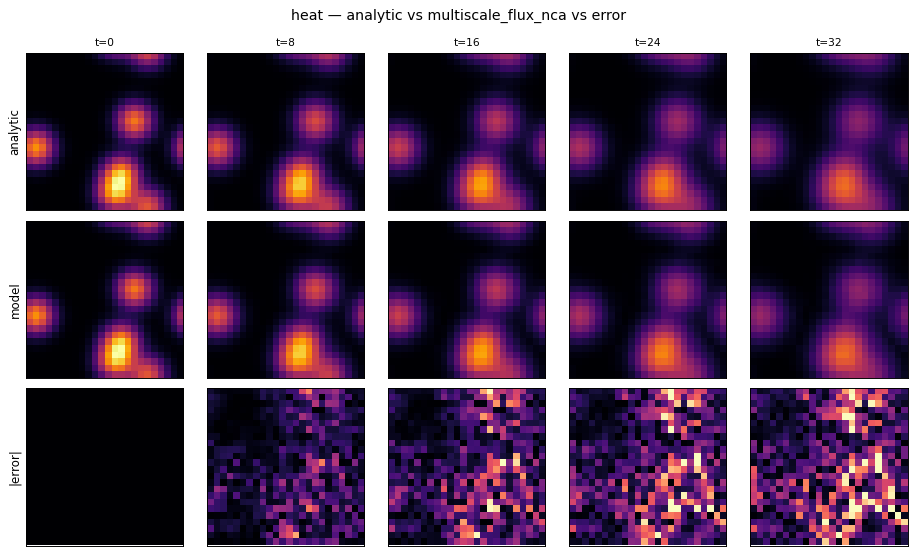
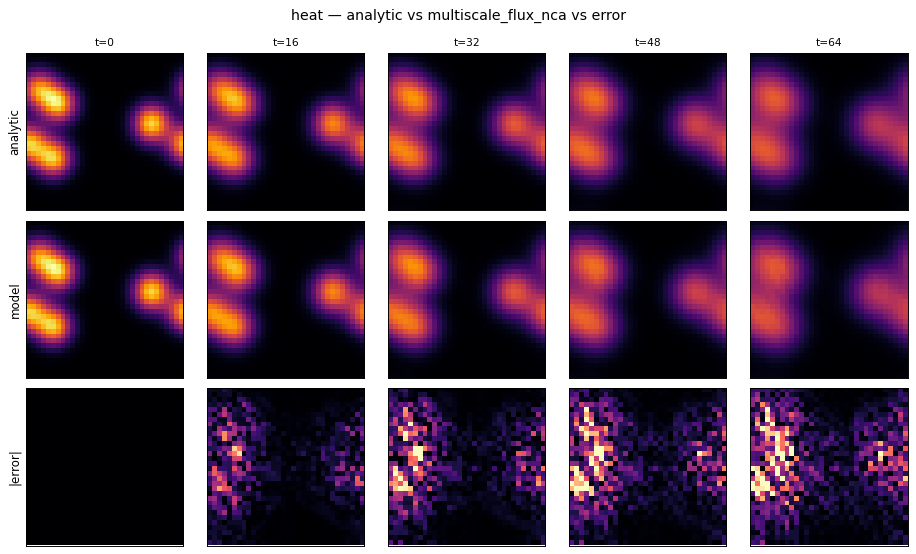
test: add Nagumo torch reference; scope torch-comparison to referenced PDEs
New PDEs would have broken the suite (REFS[name] KeyError). Added verbatim Nagumo
reference; parametrize torch-comparison tests over list(REFS) (excludes the
pseudo-spectral navier_stokes, which has no roll-based ref and is covered by the
IC+rollout stability test). 32/32 in suite+IC tests.

diff --git a/tests/test_pde_suite_correctness.py b/tests/test_pde_suite_correctness.py
@@ -89,11 +89,17 @@ def ref_fhn(s, p):
     return torch.cat([u + p["dt"] * du, v + p["dt"] * dv], 1)
 
 
+def ref_nagumo(s, p):
+    return s + p["dt"] * (p["D"] * t_lap(s) + s * (1.0 - s) * (s - p["a"]))
+
+
+# Verbatim references for the finite-difference PDEs. (navier_stokes is pseudo-spectral
+# — no roll-based torch ref; it is covered by the IC+rollout stability test instead.)
 REFS = {
     "heat": ref_heat, "wave": ref_wave, "adv_diff": ref_adv_diff,
     "allen_cahn": ref_allen_cahn, "gray_scott": ref_gray_scott,
     "shallow_water": ref_shallow_water, "cahn_hilliard": ref_cahn_hilliard,
-    "fitzhugh_nagumo": ref_fhn,
+    "fitzhugh_nagumo": ref_fhn, "nagumo": ref_nagumo,
 }
 
 
@@ -112,7 +118,7 @@ def _make_state(name, C, rng):
     return s
 
 
-@pytest.mark.parametrize("name", list(pdes.REGISTRY))
+@pytest.mark.parametrize("name", list(REFS))
 def test_pde_step_matches_torch(name):
     spec = pdes.REGISTRY[name]
     rng = np.random.default_rng(_seed(name))
@@ -132,7 +138,7 @@ def test_pde_step_matches_torch(name):
 _ROLLOUT_TOL = {"shallow_water": (1e-2, 1e-2)}
 
 
-@pytest.mark.parametrize("name", list(pdes.REGISTRY))
+@pytest.mark.parametrize("name", list(REFS))
 def test_pde_rollout_matches_torch(name):
     spec = pdes.REGISTRY[name]
     rng = np.random.default_rng(_seed(name) + 1)
